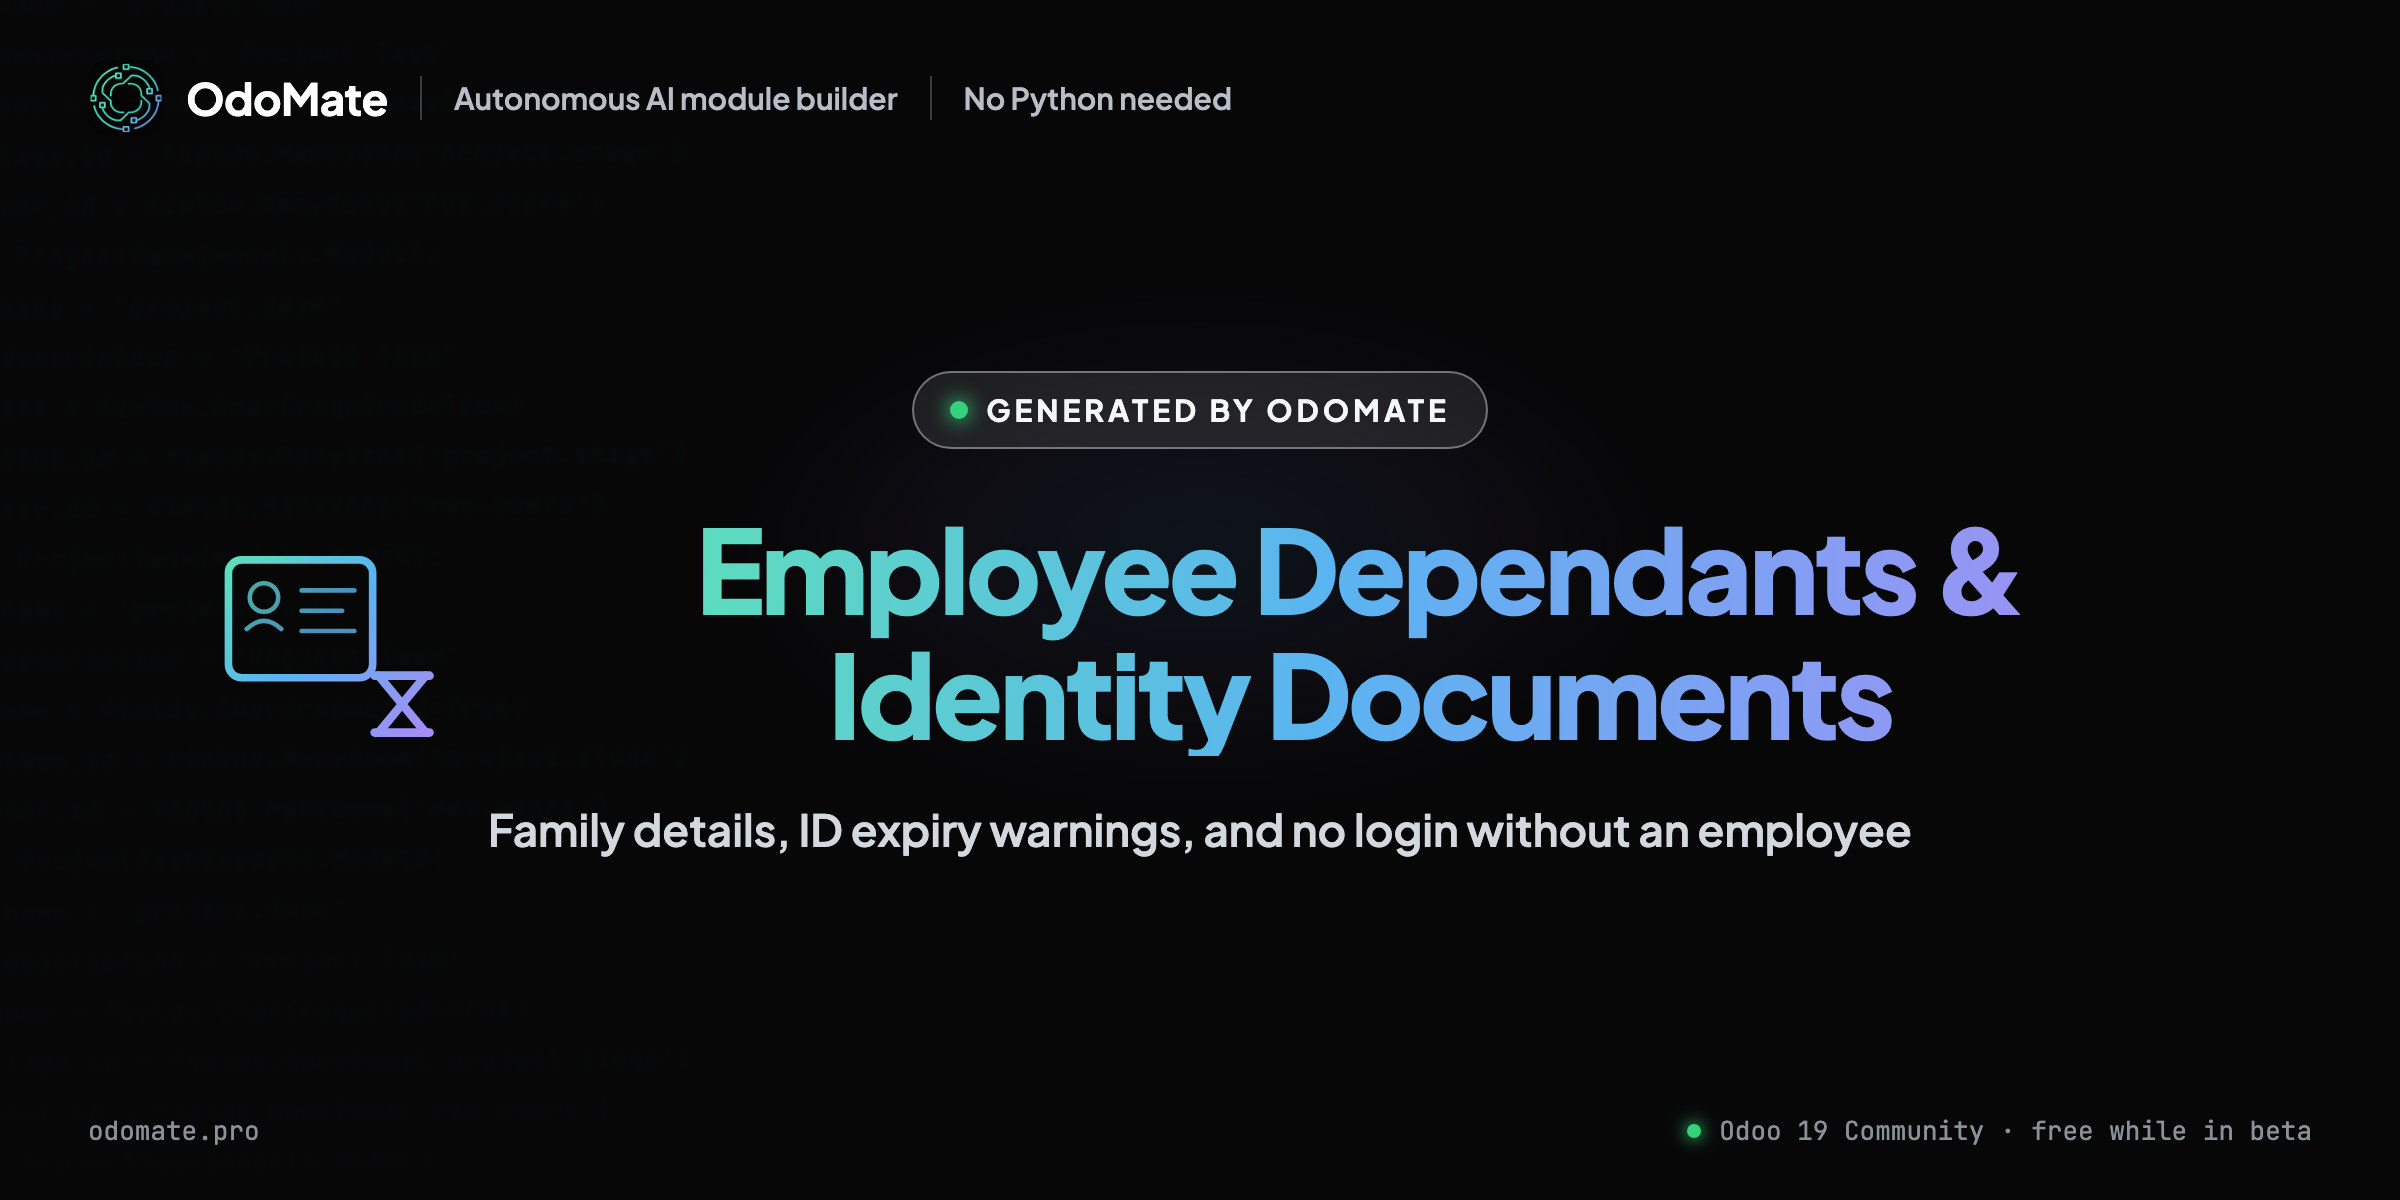
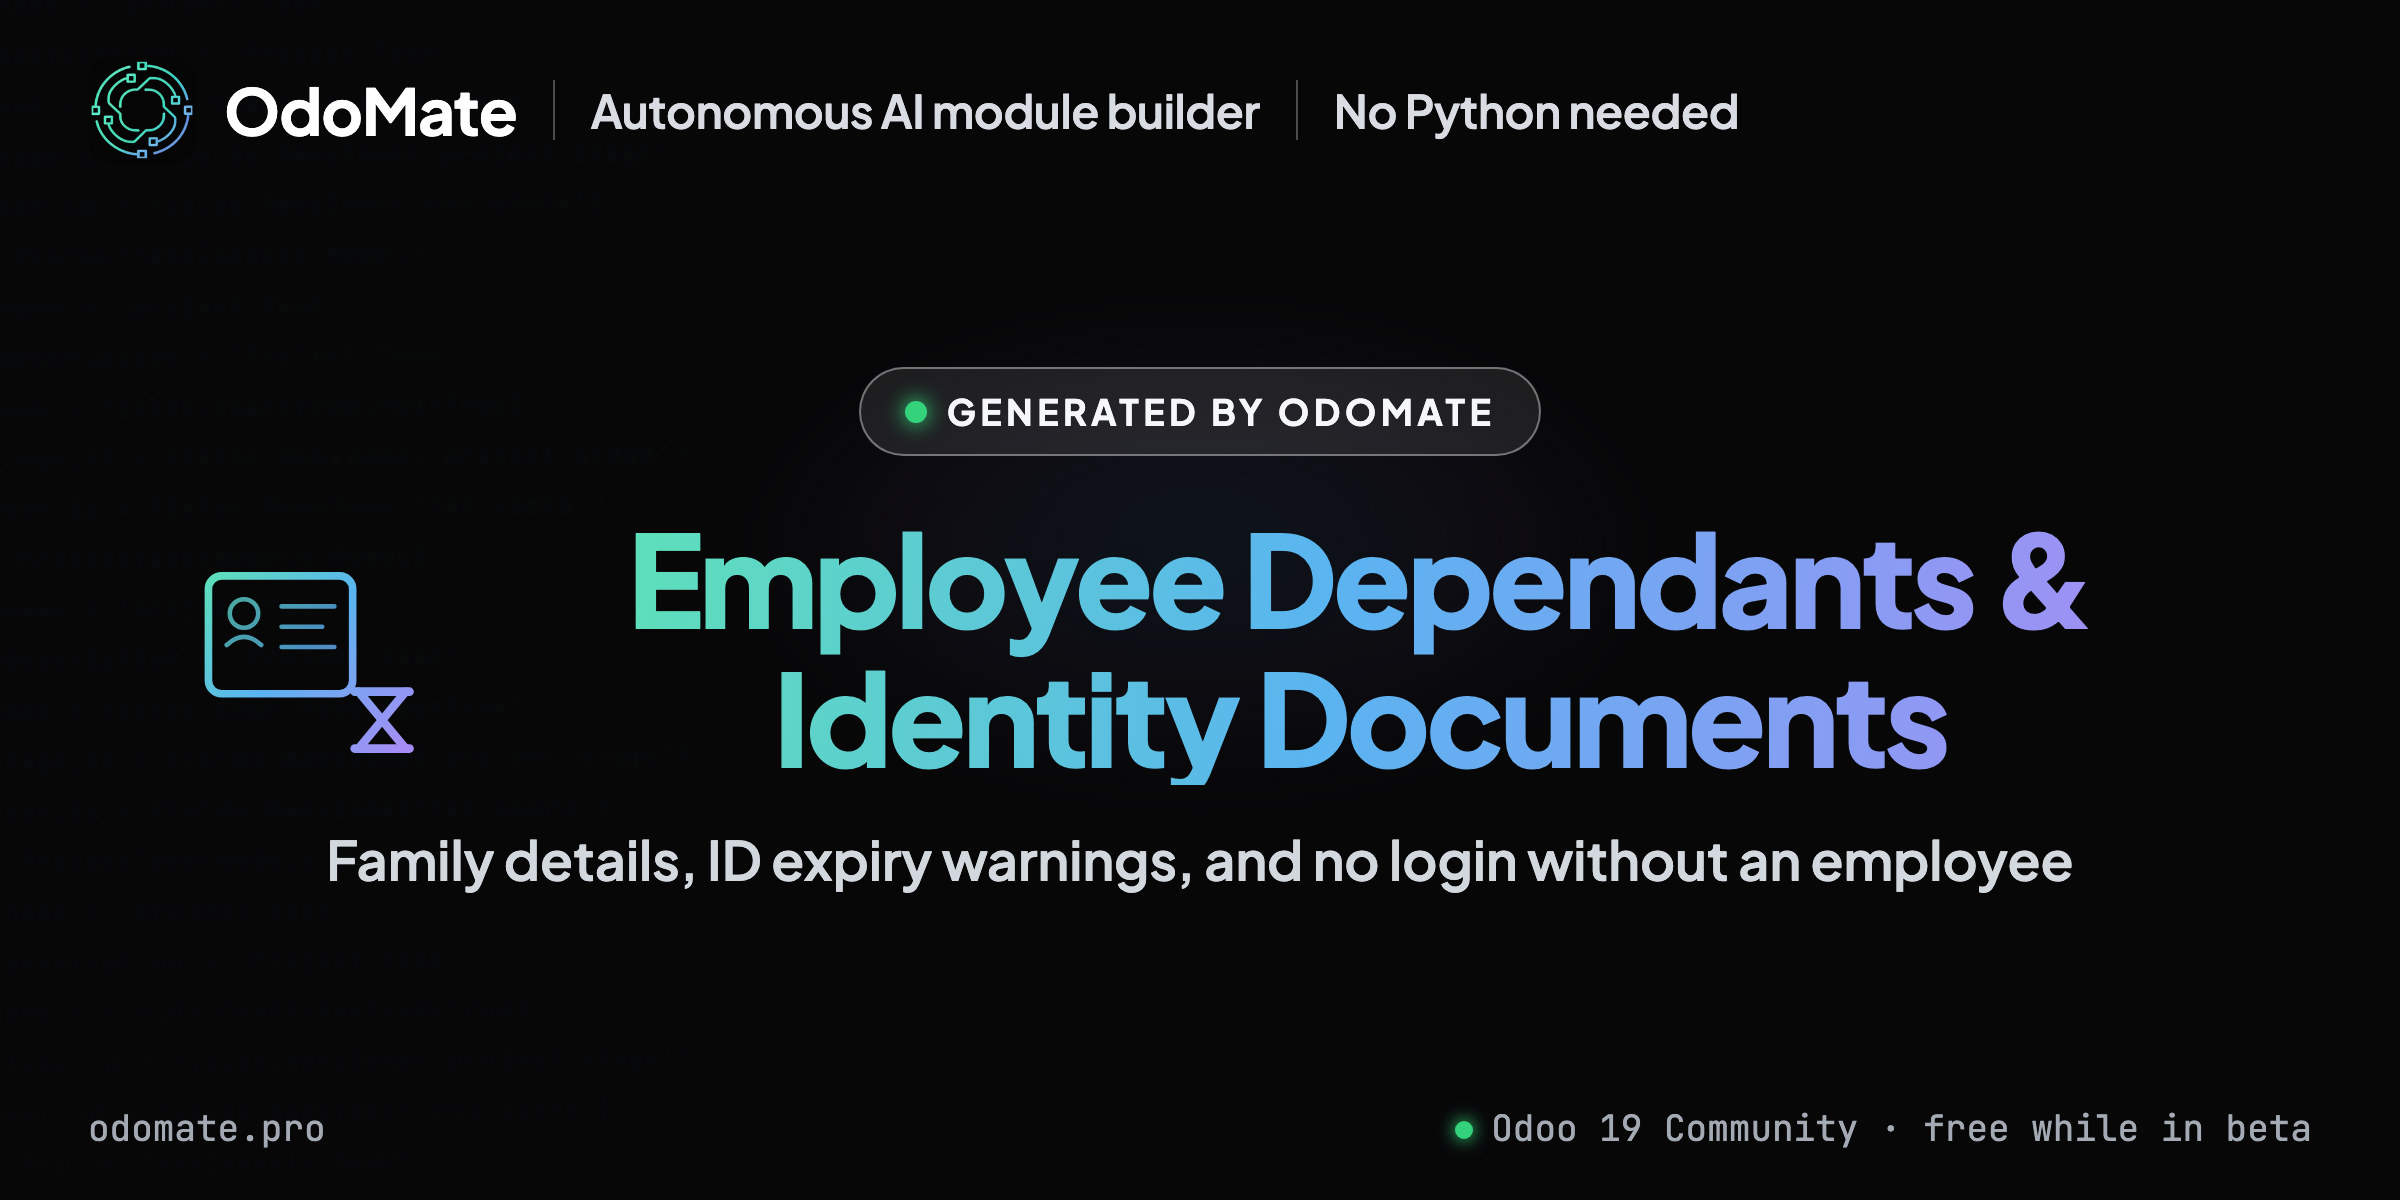
Enlarge the animated cover's header, footer and scene type
On the Store's search cards the 1200×600 cover shows at under half
size, and the 15 px lockup and 13 px footer became unreadable. The
lockup is now 54 px logo / 32 px wordmark / 23 px descriptor, the
footer 18 px, and every scene's headline, card text, stepper labels,
tiles and ticks are scaled up in step. All eight covers re-rendered;
version digits bumped so the Store re-scans.

diff --git a/odomate_product_kind/__manifest__.py b/odomate_product_kind/__manifest__.py
@@ -24,7 +24,7 @@ route type, snapshot, sale order, manufacturing order, bill of materials.
     'website': "https://odomate.pro/m/kinds?v=site",
     'support': "support@odomate.pro",
     'category': 'Manufacturing',
-    'version': '19.0.1.0.8',
+    'version': '19.0.1.0.9',
     'license': 'LGPL-3',
     'depends': [
         'mrp',

diff --git a/odomate_connector/__manifest__.py b/odomate_connector/__manifest__.py
@@ -34,7 +34,7 @@ exactly what leaves your system before you share it.
     'website': "https://odomate.pro/m/connector?v=site",
     'support': "support@odomate.pro",
     'category': 'Technical',
-    'version': '19.0.1.7.2',
+    'version': '19.0.1.7.3',
     'license': 'LGPL-3',
     'depends': ['base'],
     'data': [

diff --git a/odomate_project_checklist/__manifest__.py b/odomate_project_checklist/__manifest__.py
@@ -19,7 +19,7 @@ stamp themselves automatically.
     'website': "https://odomate.pro/m/checklist?v=site",
     'support': "support@odomate.pro",
     'category': 'Services/Project',
-    'version': '19.0.1.0.4',
+    'version': '19.0.1.0.5',
     'license': 'LGPL-3',
     'depends': ['project'],
     'data': [

diff --git a/audit_trail/__manifest__.py b/audit_trail/__manifest__.py
@@ -27,7 +27,7 @@ the five actions to record: create, write, unlink, export and read.
     'support': "support@odomate.pro",
 
     'category': 'Tools',
-    'version': '19.0.1.0.7',
+    'version': '19.0.1.0.8',
     'license': 'LGPL-3',
 
     'depends': ['base', 'web'],

diff --git a/odomate_hr_documents/__manifest__.py b/odomate_hr_documents/__manifest__.py
@@ -21,7 +21,7 @@ the chasing pattern configured on each document type.
     'support': "support@odomate.pro",
 
     'category': 'Human Resources',
-    'version': '19.0.1.0.3',
+    'version': '19.0.1.0.4',
     'license': 'LGPL-3',
 
     'depends': ['hr', 'mail'],

diff --git a/sale_warehouse_auto_fulfillment/__manifest__.py b/sale_warehouse_auto_fulfillment/__manifest__.py
@@ -28,7 +28,7 @@ so a failure leaves the order as a quotation with nothing half-done.
     'support': "support@odomate.pro",
 
     'category': 'Sales/Sales',
-    'version': '19.0.1.0.2',
+    'version': '19.0.1.0.3',
     'license': 'LGPL-3',
 
     'depends': [

diff --git a/odomate_hr_employee_info_06092026_2/__manifest__.py b/odomate_hr_employee_info_06092026_2/__manifest__.py
@@ -23,7 +23,7 @@ employee creation for every new internal login.
     'support': "support@odomate.pro",
 
     'category': 'Human Resources',
-    'version': '19.0.1.0.3',
+    'version': '19.0.1.0.4',
     'license': 'LGPL-3',
 
     'depends': ['hr', 'mail'],

diff --git a/sale_discount_approval_21072026/__manifest__.py b/sale_discount_approval_21072026/__manifest__.py
@@ -38,7 +38,7 @@ Key features
     'support': "support@odomate.pro",
 
     'category': 'Sales/Sales',
-    'version': '19.0.1.0.5',
+    'version': '19.0.1.0.6',
     'license': 'LGPL-3',
 
     'depends': [
